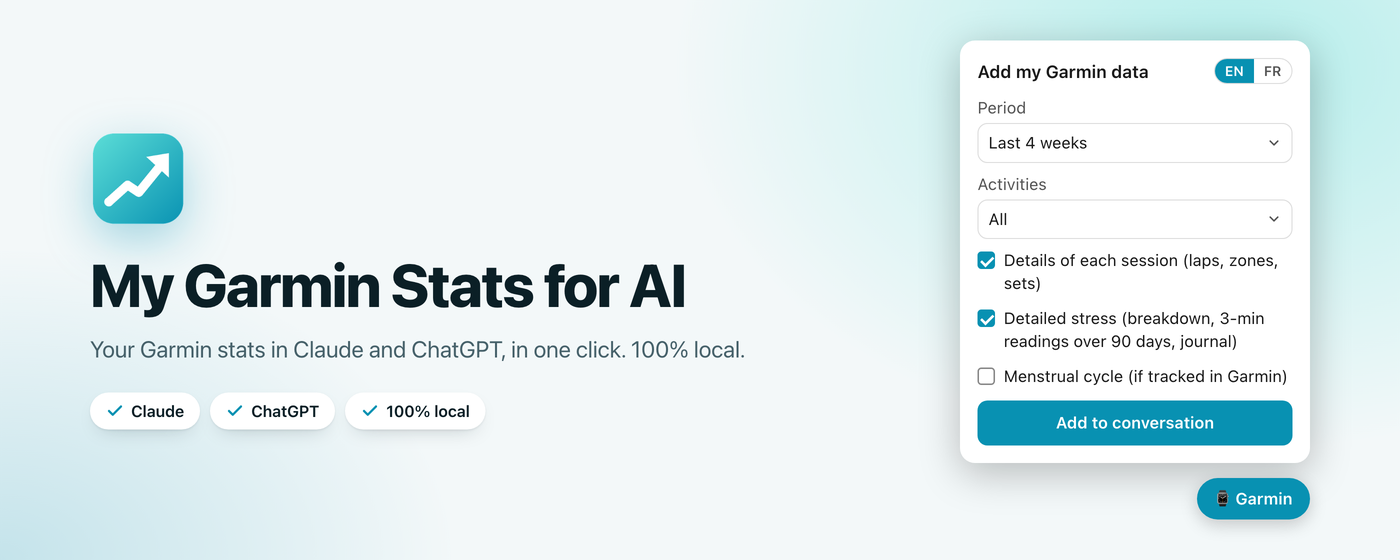
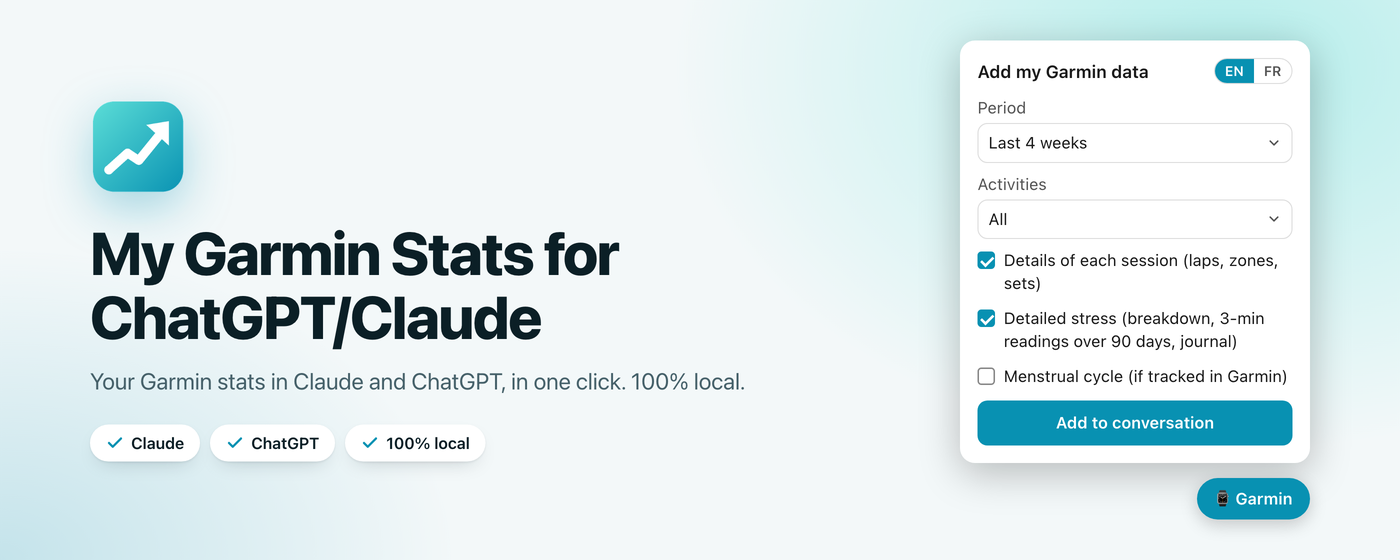
Nom : My Garmin Stats for ChatGPT/Claude / Mes Stats Garmin pour ChatGPT/Claude

Changed region(s): [[0.0614, 0.1821, 0.5529, 0.6375], [0.0614, 0.6679, 0.5529, 0.85]]

diff --git a/i18n.js b/i18n.js
@@ -6,7 +6,7 @@ let LANG = DEFAULT_LANG;
 
 const UI_TEXT = {
   en: {
-    appName: "My Garmin Stats for AI",
+    appName: "My Garmin Stats for ChatGPT/Claude",
     panelTitle: "Add my Garmin data",
     fabTitle: "Add my Garmin data to the conversation",
     period: "Period",
@@ -58,7 +58,7 @@ const UI_TEXT = {
     since: "Since {date} ({n} day{s})",
   },
   fr: {
-    appName: "Mes Stats Garmin pour l'IA",
+    appName: "Mes Stats Garmin pour ChatGPT/Claude",
     panelTitle: "Ajouter mes données Garmin",
     fabTitle: "Ajouter mes données Garmin à la conversation",
     period: "Période",

diff --git a/popup.html b/popup.html
@@ -2,7 +2,7 @@
 <html lang="en">
 <head>
   <meta charset="utf-8">
-  <title>My Garmin Stats for AI</title>
+  <title>My Garmin Stats for ChatGPT/Claude</title>
   <style>
     body { width: 360px; margin: 0; padding: 16px; font: 13px/1.4 system-ui, sans-serif; color: #1a1a1a; }
     header { display: flex; align-items: center; justify-content: space-between; margin: 0 0 12px; }

diff --git a/store/make_store_images.py b/store/make_store_images.py
@@ -21,7 +21,7 @@ CHROME = "/Applications/Google Chrome.app/Contents/MacOS/Google Chrome"
 
 TEXT = {
     "en": {
-        "name": "My Garmin Stats for AI",
+        "name": "My Garmin Stats for ChatGPT/Claude",
         "sites": {
             "claude": ("Right inside <em>Claude</em>", "The Garmin button appears in the corner of every chat."),
             "chatgpt": ("And inside <em>ChatGPT</em>", "Same button, same file, one click."),
@@ -70,7 +70,7 @@ TEXT = {
         "promo": ["Your Garmin stats", "in your AI chat."],
     },
     "fr": {
-        "name": "Mes Stats Garmin pour l'IA",
+        "name": "Mes Stats Garmin pour ChatGPT/Claude",
         "sites": {
             "claude": ("Directement dans <em>Claude</em>", "Le bouton Garmin apparaît dans le coin de chaque conversation."),
             "chatgpt": ("Et dans <em>ChatGPT</em>", "Même bouton, même fichier, en un clic."),

diff --git a/store/LISTING.md b/store/LISTING.md
@@ -9,10 +9,10 @@ La fiche existe en deux langues : anglais (langue par défaut) et français.
 
 Le **nom** et le **résumé** viennent du manifeste (`_locales/en` et `_locales/fr`) : rien à saisir.
 
-- Nom : `My Garmin Stats for AI` / `Mes Stats Garmin pour l'IA`
+- Nom : `My Garmin Stats for ChatGPT/Claude` / `Mes Stats Garmin pour ChatGPT/Claude`
 - Résumé : `Add your Garmin Connect stats (activities, sleep, HRV, fitness) to Claude or ChatGPT in one click. 100% local.`
 
-Nom de secours si Google refuse à cause des marques : `My Watch Stats for AI` / `Mes Stats Montre pour l'IA` (dans `_locales/*/messages.json` et `i18n.js`).
+Nom de secours si Google refuse à cause des marques : `My Watch Stats for ChatGPT/Claude` / `Mes Stats Montre pour ChatGPT/Claude` (dans `_locales/*/messages.json` et `i18n.js`).
 
 ### Description en anglais (langue par défaut)
 

diff --git a/README.md b/README.md
@@ -1,4 +1,4 @@
-# Mes Stats Garmin pour l'IA
+# Mes Stats Garmin pour ChatGPT/Claude
 
 Extension Chrome qui ajoute tes données Garmin Connect à une conversation Claude en un clic : activités, détail des séances, sommeil, HRV, FC au repos, stress, Body Battery, VO2 max, statut d'entraînement et prédictions de course.
 

diff --git a/PUBLISH.md b/PUBLISH.md
@@ -1,4 +1,4 @@
-# Publier Mes Stats Garmin pour l'IA : check-list
+# Publier Mes Stats Garmin pour ChatGPT/Claude : check-list
 
 Ce qui est prêt est coché. Le reste demande ton compte ou ton action.
 
